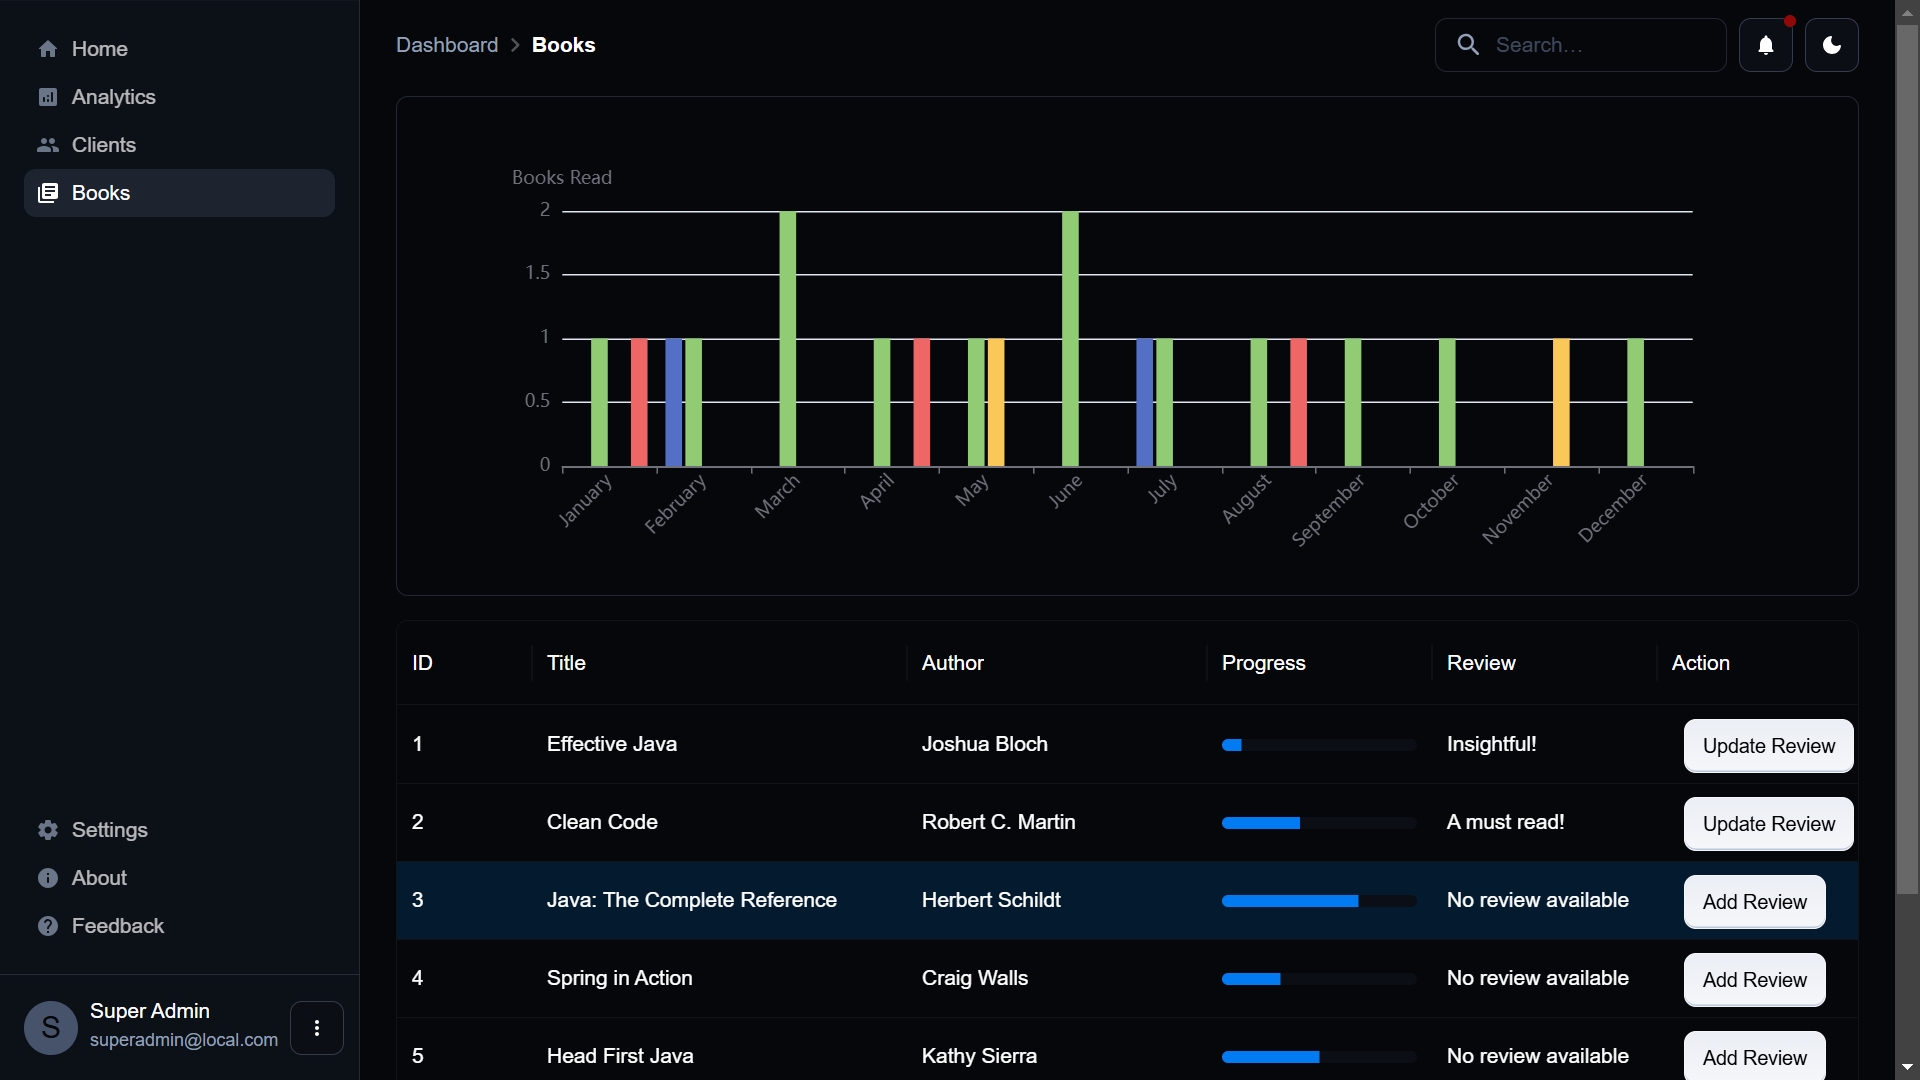
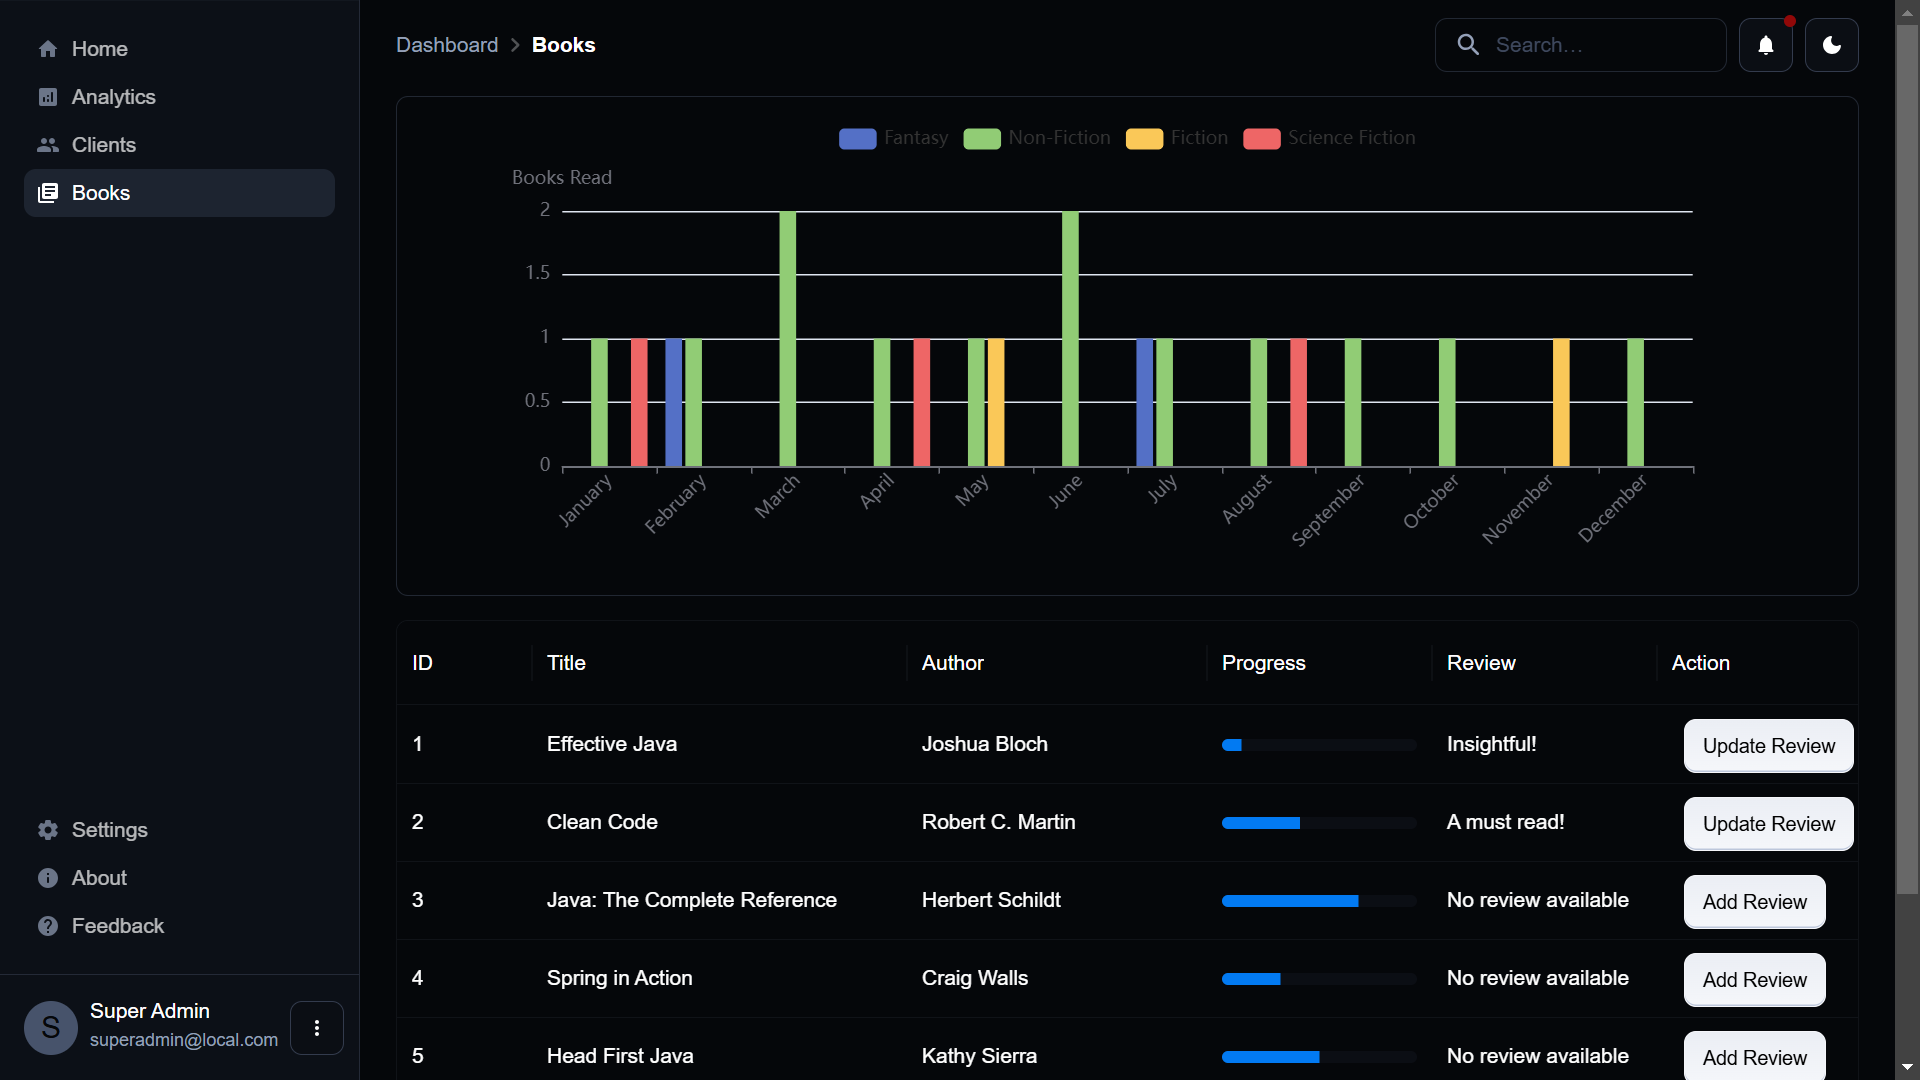
Add legends to books chart

diff --git a/client/src/books/components/BooksCompletedChart.js b/client/src/books/components/BooksCompletedChart.js
@@ -58,8 +58,8 @@ const BooksCompletedChart = () => {
       },
     },
     legend: {
-      data: Object.keys(chartData.series),
-    },
+      data: chartData.series.map(s => s.name),
+    },    
     xAxis: {
       type: "category",
       data: chartData.months,

diff --git a/server/src/main/java/com/example/demo/controller/StatisticsController.java b/server/src/main/java/com/example/demo/controller/StatisticsController.java
@@ -6,7 +6,6 @@ import com.example.demo.service.BookService;
 import com.example.demo.model.Book;
 import org.springframework.beans.factory.annotation.Autowired;
 import org.springframework.http.ResponseEntity;
-import org.springframework.web.bind.annotation.CrossOrigin;
 import org.springframework.web.bind.annotation.GetMapping;
 import org.springframework.web.bind.annotation.RequestMapping;
 import org.springframework.web.bind.annotation.RestController;

diff --git a/server/src/main/java/com/example/demo/config/SecurityConfig.java b/server/src/main/java/com/example/demo/config/SecurityConfig.java
@@ -19,6 +19,7 @@ public class SecurityConfig {
         this.customUserDetailsService = customUserDetailsService;
     }
 
+    @SuppressWarnings("removal")
     @Bean
     public AuthenticationManager authenticationManager(HttpSecurity http) throws Exception {
         return http.getSharedObject(AuthenticationManagerBuilder.class)
